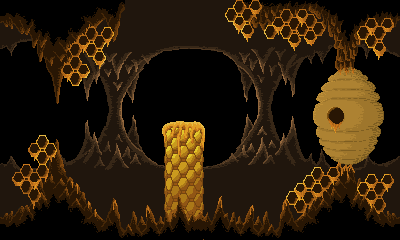
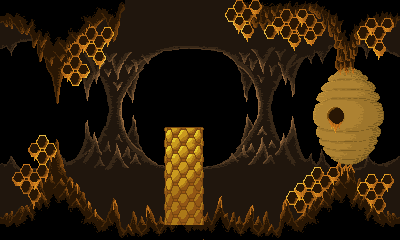
Blink random elements at glitch phase instead of just bees

Changed region(s): [[0.39, 0.4958, 0.51, 0.6417], [0.39, 0.8167, 0.51, 0.9625]]

diff --git a/TrappedInside/Assets/Scripts/Gameplay/BossHornets/GlitchElementController.cs b/TrappedInside/Assets/Scripts/Gameplay/BossHornets/GlitchElementController.cs
@@ -1,0 +1,67 @@
+using System.Collections;
+using System.Collections.Generic;
+using UnityEngine;
+
+public class GlitchElementController : MonoBehaviour
+{
+    public GameObject[] elementPrefabs;
+    public Vector2 areaSize;
+    public int maxNumberOfElements = 40;
+    public float elementCreationInterval = 0.2f;
+    public float blinkingInterval = 0.05f;
+
+    private float _previousElementCreationTime = -1;
+    private float _previousBlinkTime = -1;
+    private List<GameObject> _elements = new List<GameObject>();
+
+    void Update()
+    {
+        if(elementCreationIntervalPassed && !MaxElementCountReached)
+        {
+            CreateNewElement();
+            ResetPreviousElementCreationTime();
+        }
+
+        if(BlinkingIntervalPassed)
+        {
+            BlinkRandomElement();
+            ResetPreviousBlinkTime();
+        }
+    }
+
+    bool elementCreationIntervalPassed => Time.time > _previousElementCreationTime + elementCreationInterval;
+
+    bool MaxElementCountReached => _elements.Count >= maxNumberOfElements;
+
+    bool BlinkingIntervalPassed => Time.time > _previousBlinkTime + blinkingInterval;
+
+    void ResetPreviousElementCreationTime() => _previousElementCreationTime = Time.time;
+
+    void ResetPreviousBlinkTime() => _previousBlinkTime = Time.time;
+
+    void BlinkRandomElement()
+    {
+            var index = Random.Range(0, _elements.Count);
+            _elements[index].SetActive(!_elements[index].activeSelf);
+    }
+
+    void CreateNewElement()
+    {
+            var elementPosition = new Vector3(
+                GetRandom(transform.position.x, areaSize.x), 
+                GetRandom(transform.position.y, areaSize.y), 
+                0);
+
+            var prefab = elementPrefabs[Random.Range(0, elementPrefabs.Length)];
+
+            _elements.Add(Instantiate(prefab, elementPosition, Quaternion.identity));
+    }
+
+    float GetRandom(float centerPoint, float size) => centerPoint + Random.Range(0f, size) - size / 2;
+
+    void OnDrawGizmos()
+    {
+        Gizmos.color = Color.yellow;
+        Gizmos.DrawWireCube(transform.position, new Vector3(areaSize.x, areaSize.y, 0));
+    }
+}
